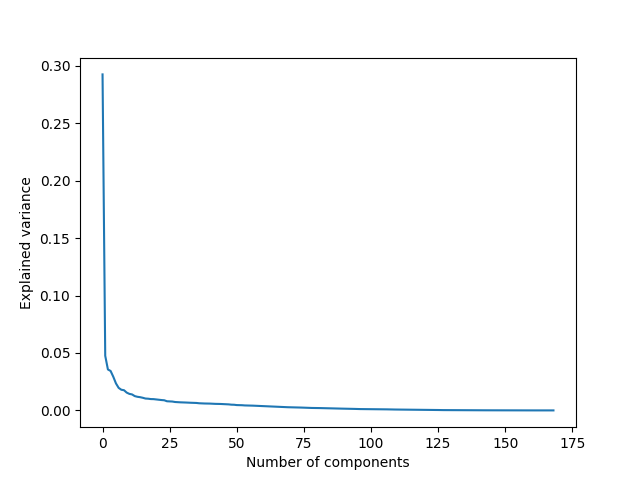
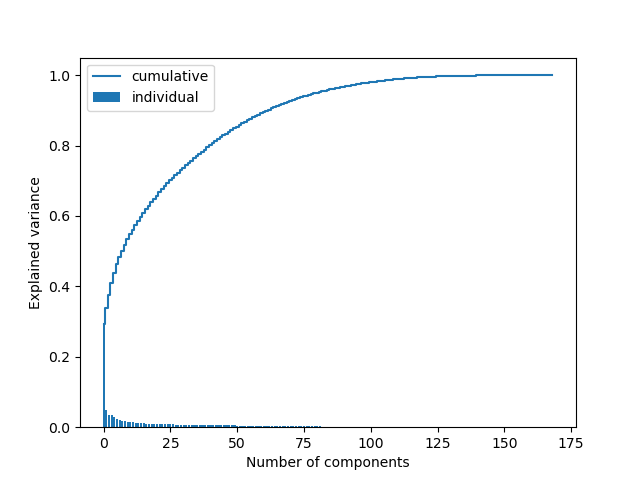
add cumulative variance

diff --git a/pca.py b/pca.py
@@ -94,12 +94,20 @@ class PCA:
         """
         total_variance = sum(self.eigenvalues)
         explained_variances = []
-        for val in self.eigenvalues:
-            explained_variances.append(val / total_variance)
+        cumulative = [0]
+        for i in range(len(self.eigenvalues)):
+            explained_variances.append(self.eigenvalues[i] / total_variance)
+            cumulative.append(cumulative[i] + (self.eigenvalues[i] / total_variance))
+        cumulative.pop(0)
         plt.xlabel("Number of components")
         plt.ylabel("Explained variance")
-        plt.plot(np.arange(len(self.eigenvalues)), explained_variances)
+        plt.bar(np.arange(len(self.eigenvalues)), explained_variances, align='center', label='individual')
+        plt.step(np.arange(len(self.eigenvalues)), cumulative, where='mid', label='cumulative')
+        plt.legend(loc='upper left')
         plt.savefig(f'plots/pca-explained-variance.png')
+        print(f'Total variance explanied for all dimensions:')
+        for i, val in enumerate(cumulative):
+            print(f"{i+1}:, {val}")
 
     def save_data(self):
         """
